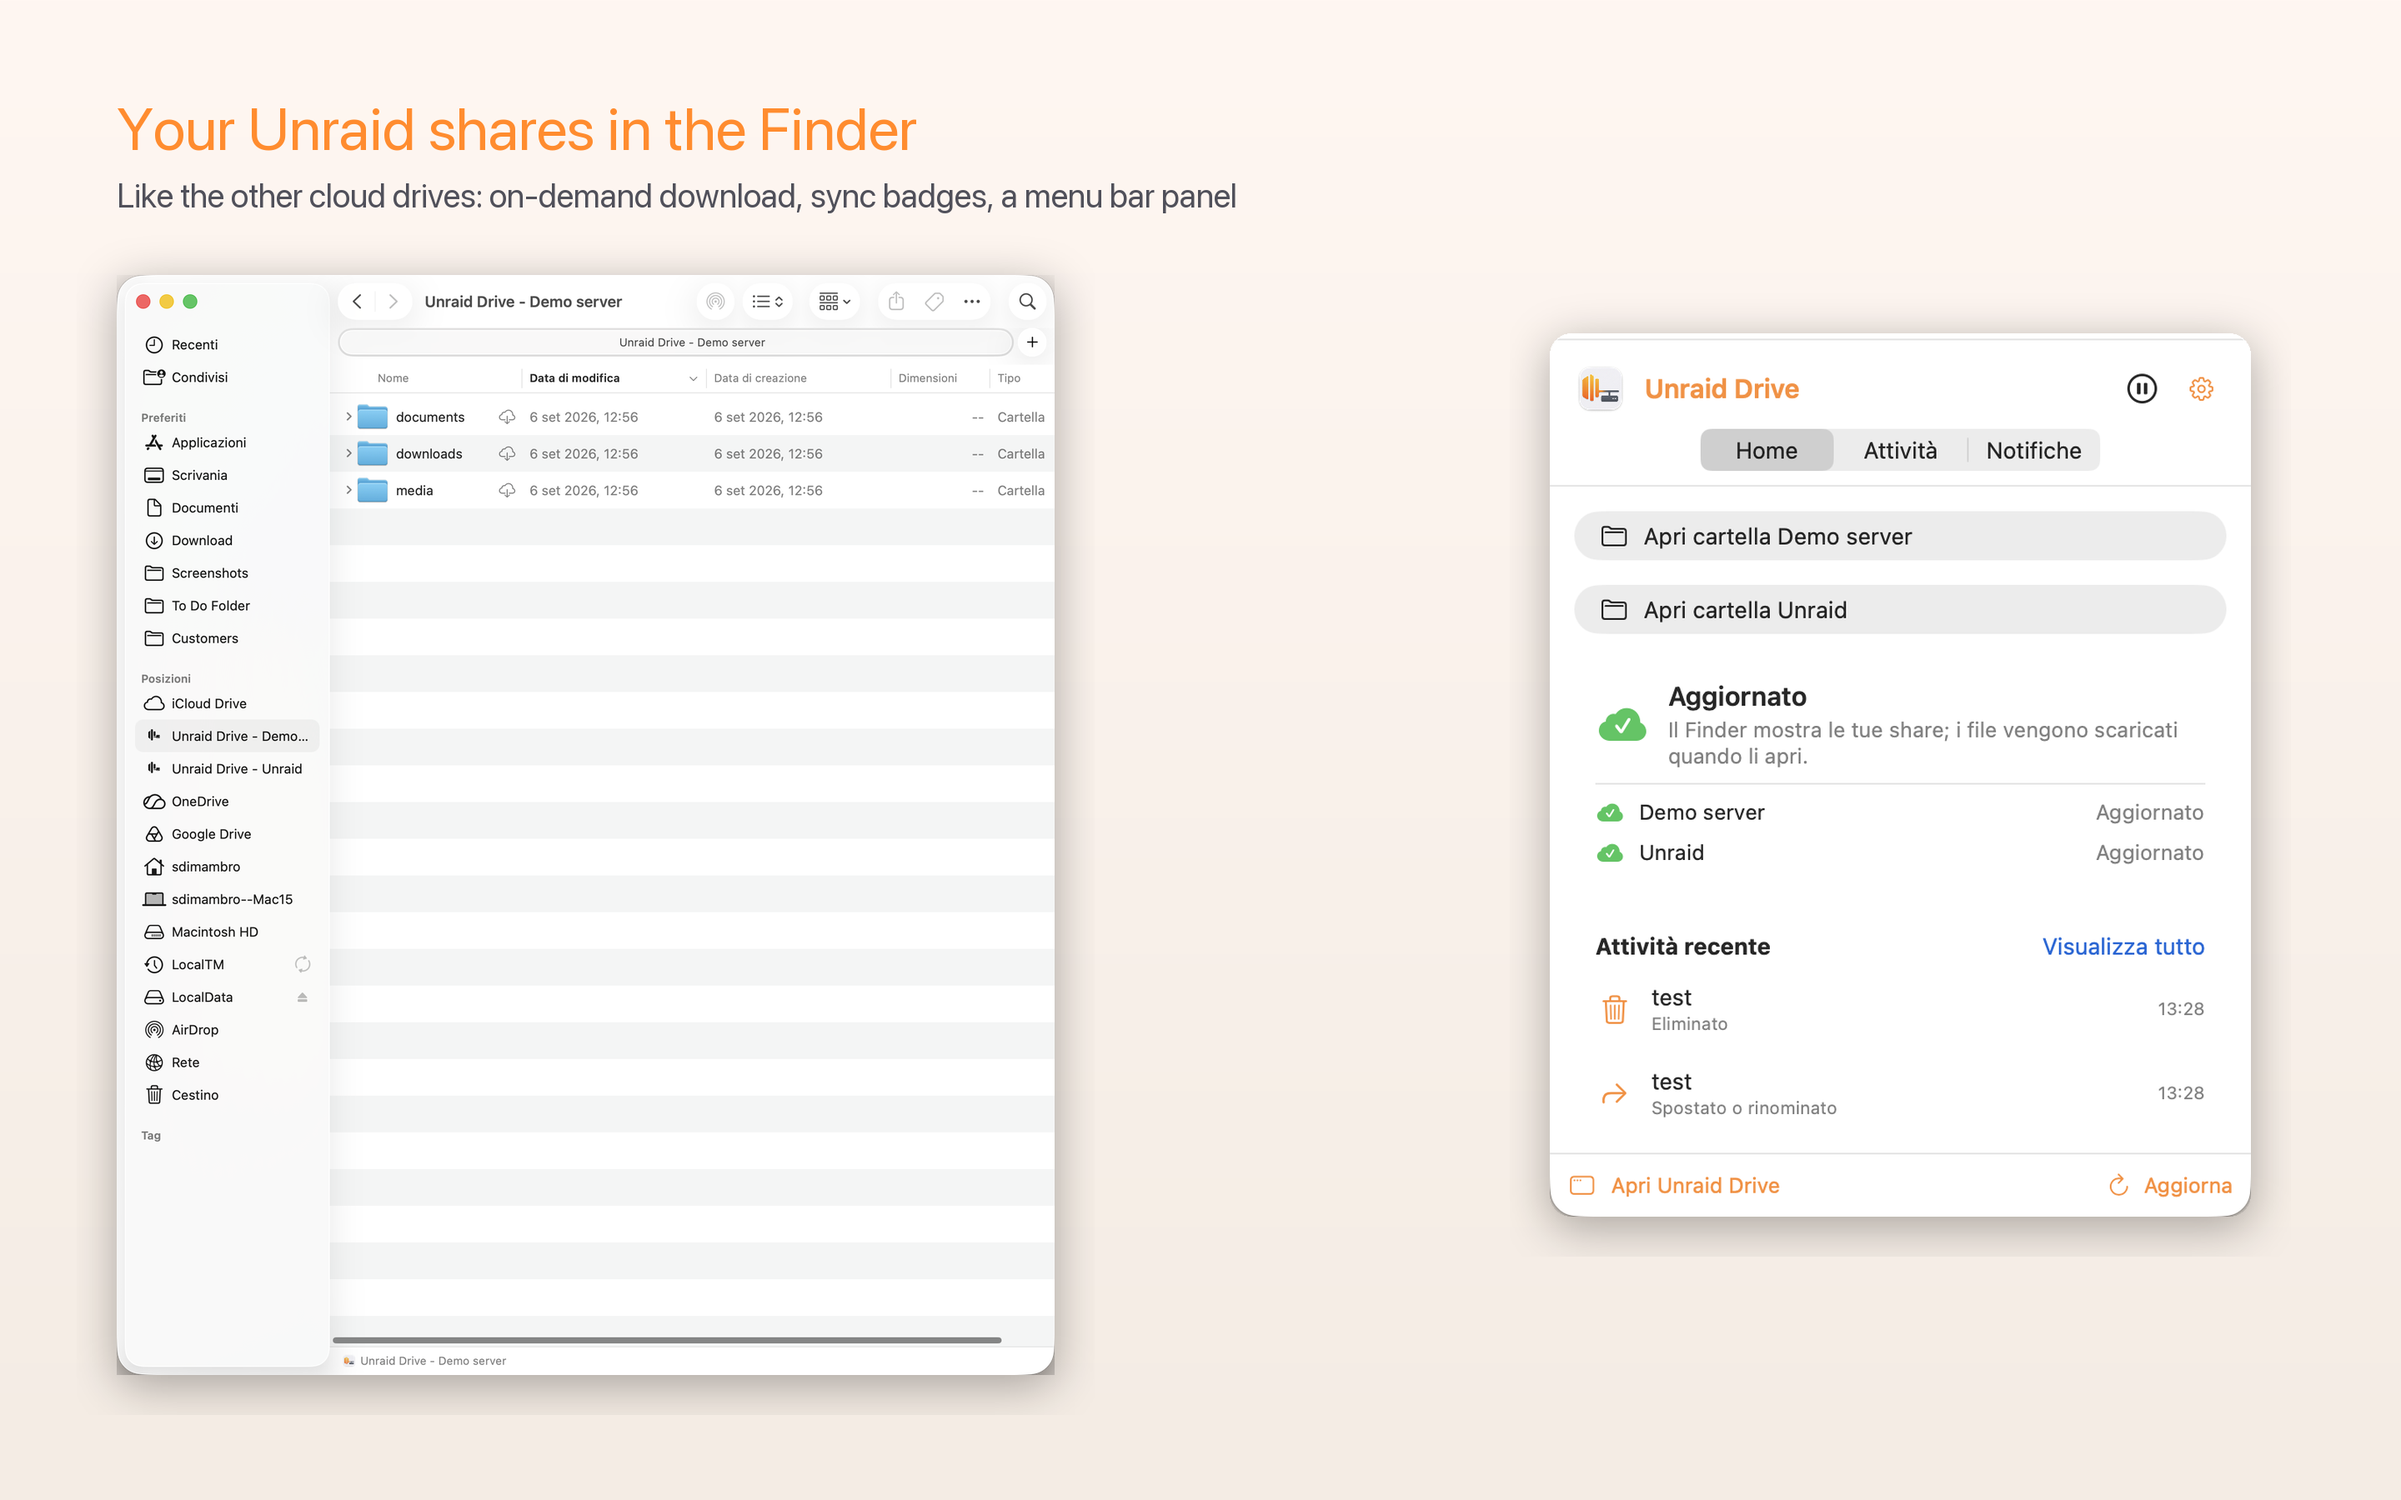
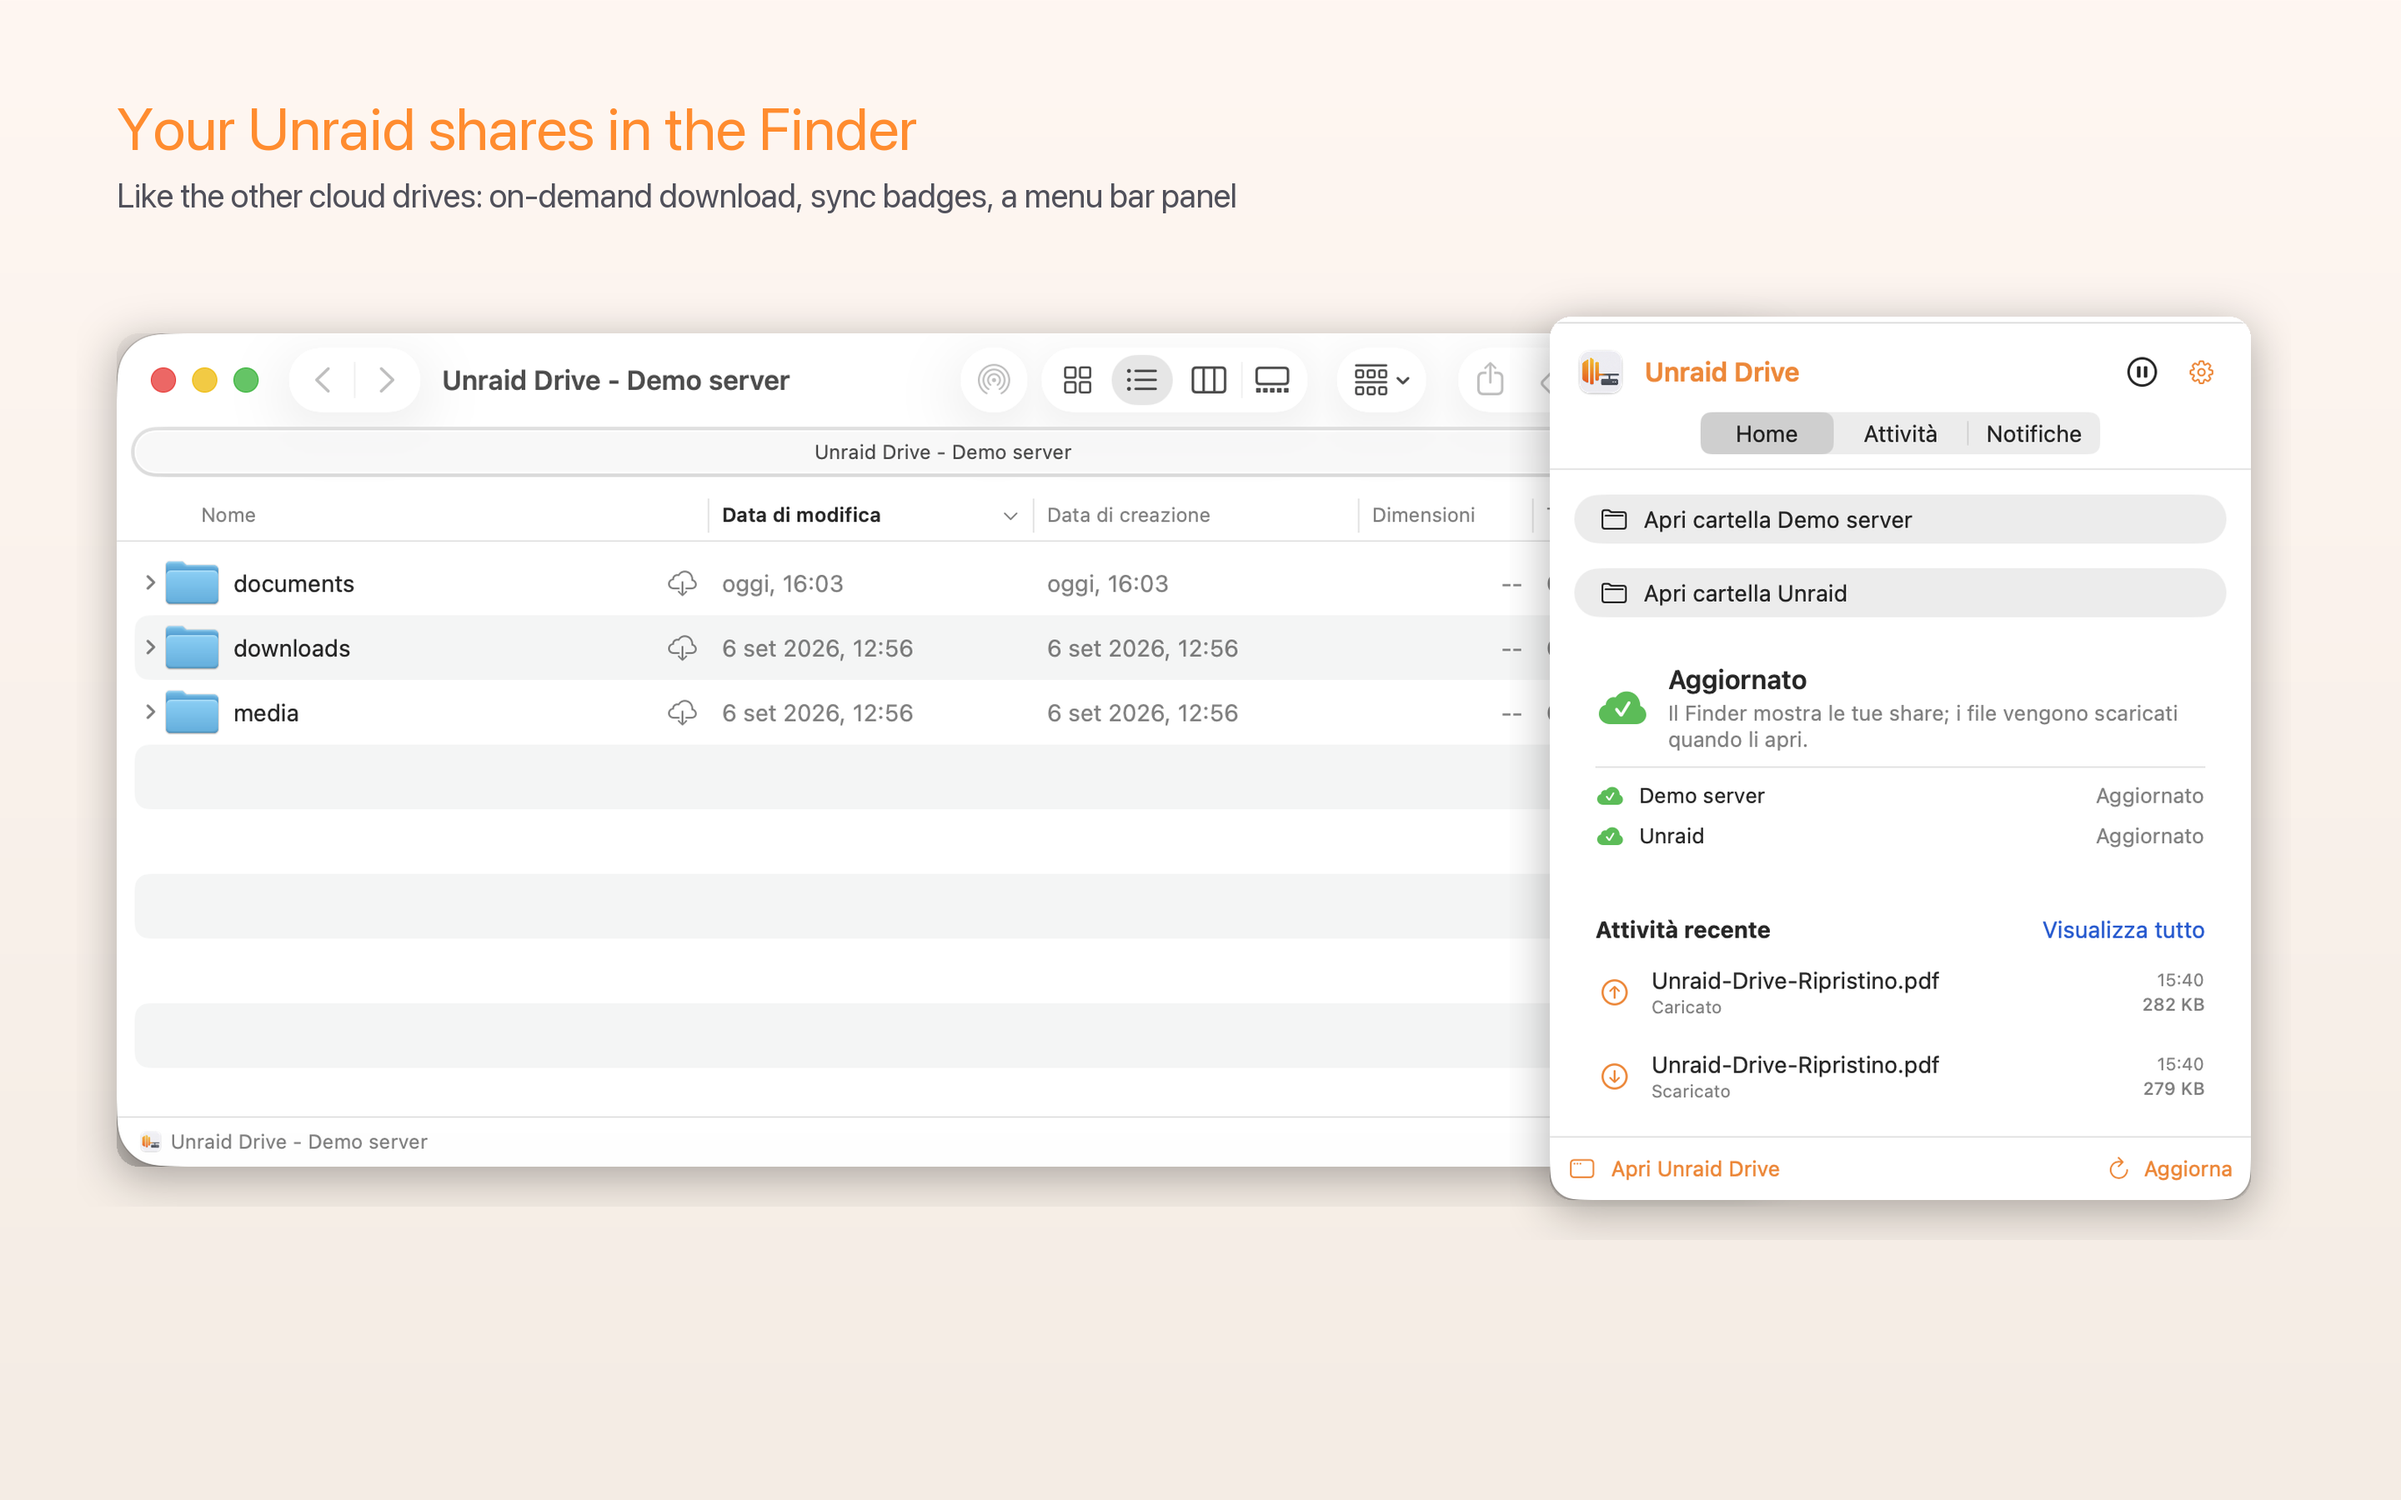
Mac screenshots redone with the demo server only (no personal data); connection-test sheet attached to the NavigationStack; -openDemo/-testDemo debug flags

diff --git a/App/Views/ServersView.swift b/App/Views/ServersView.swift
@@ -111,7 +111,6 @@ struct ServersView: View {
                 AddServerView().presentationDetents([.large])
             }
             .sheet(isPresented: $showSettings) { SettingsView() }
-            .sheet(item: $quickTestServer) { ConnectionTestView(server: $0) }
             #if os(iOS)
             .onReceive(NotificationCenter.default.publisher(for: QuickAction.notification)) { note in
                 guard let raw = note.userInfo?["action"] as? String, let action = QuickAction(rawValue: raw) else { return }
@@ -132,6 +131,11 @@ struct ServersView: View {
                 #endif
                 #if DEBUG
                 if ProcessInfo.processInfo.arguments.contains("-testConnection") { walkthroughSeen = true; quickTestServer = model.servers.first { !$0.isDemo } ?? model.servers.first }
+                // Screenshots without personal data: open the demo server (and its connection test).
+                if ProcessInfo.processInfo.arguments.contains("-openDemo"), let demo = model.servers.first(where: { $0.isDemo }) {
+                    walkthroughSeen = true; path = [demo]
+                    if ProcessInfo.processInfo.arguments.contains("-testDemo") { DispatchQueue.main.asyncAfter(deadline: .now() + 1.5) { quickTestServer = demo } }
+                }
                 #endif
                 if ProcessInfo.processInfo.arguments.contains("-openServer"), let first = model.servers.first {
                     walkthroughSeen = true
@@ -142,6 +146,7 @@ struct ServersView: View {
             }
         }
         .sheet(item: $signInServer) { AddServerView(editing: $0) }
+        .sheet(item: $quickTestServer) { ConnectionTestView(server: $0) }
         .onOpenURL { url in
             guard url.scheme == "unraiddrive", url.host == "signin" else { return }
             let id = URLComponents(url: url, resolvingAgainstBaseURL: false)?.queryItems?.first { $0.name == "server" }?.value
